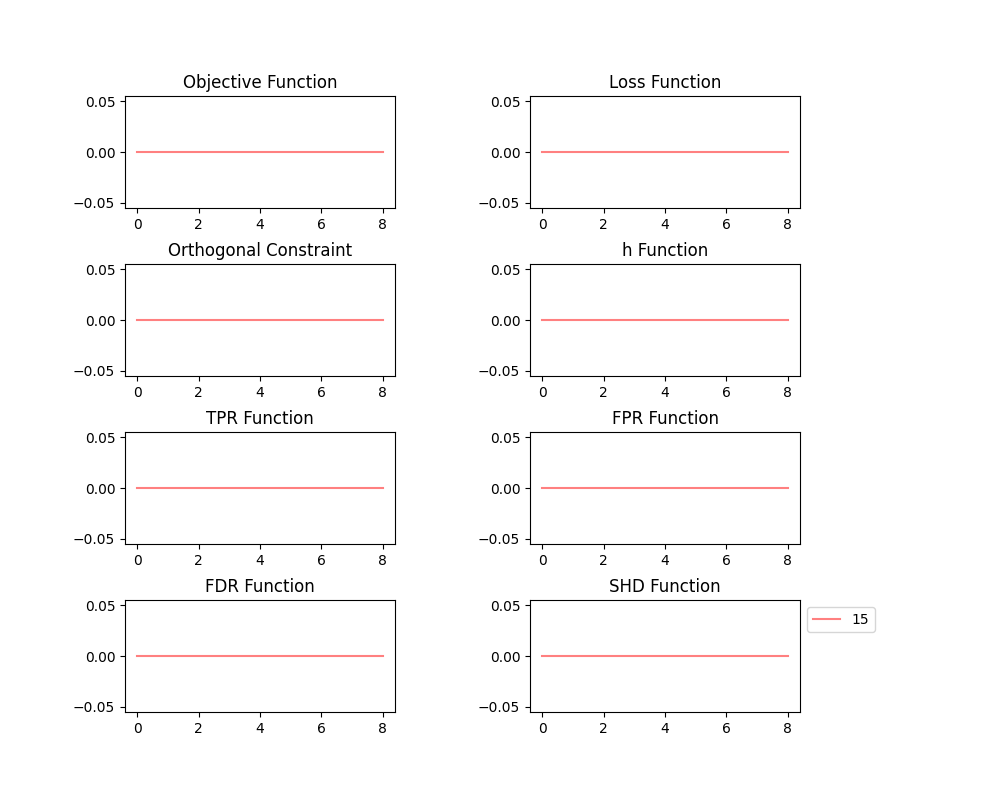
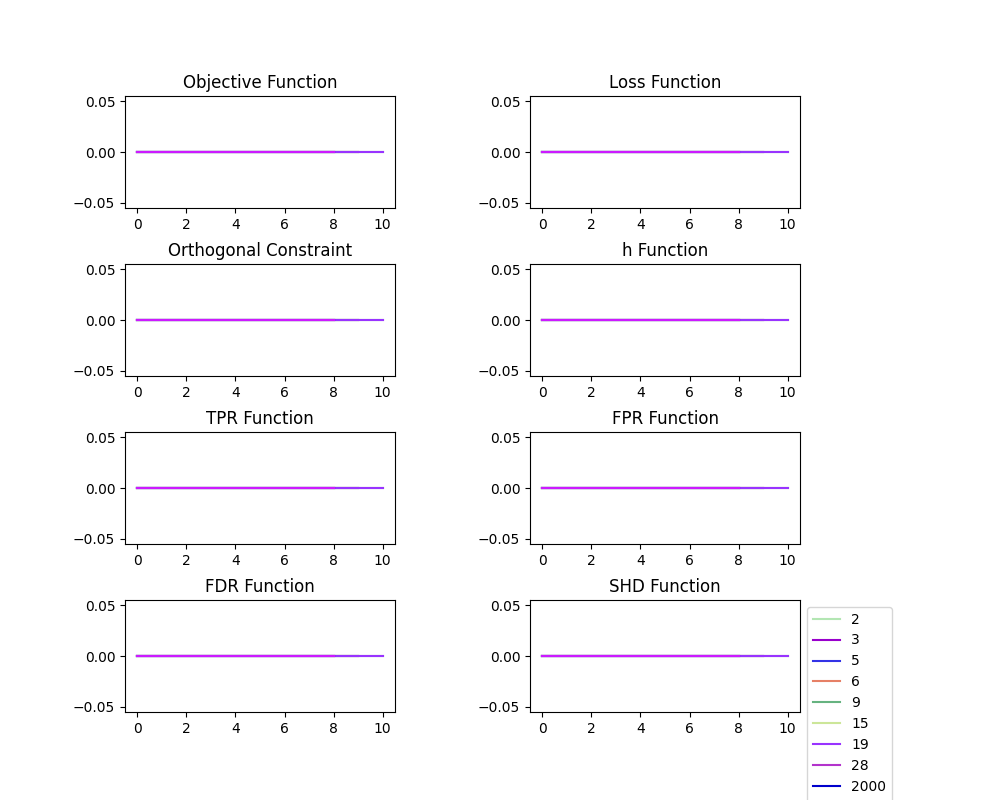
update scalable_v1

diff --git a/non_parametrics/notears/notears/ScalableDAG_v1.py b/non_parametrics/notears/notears/ScalableDAG_v1.py
@@ -491,7 +491,6 @@ class ScalableDAG_v1(nn.Module):
         return W
 
 
-
 def squared_loss(output, target):
     n = target.shape[0]
     loss = 0.5 / n * torch.sum((output - target) ** 2) # Request norm 2
@@ -578,7 +577,7 @@ def main():
     name = 'Scalable_v1'
     log = Logging(name)
     #AVERAG ---- 
-    for r in [15, 6]: #[2,3,5,6,9,15,19,28,2000,2001]
+    for r in [2,3,5,6,9,15,19,28,2000,2001]: #
 
     #LOGGING----
         log.random_seed_update(r)
